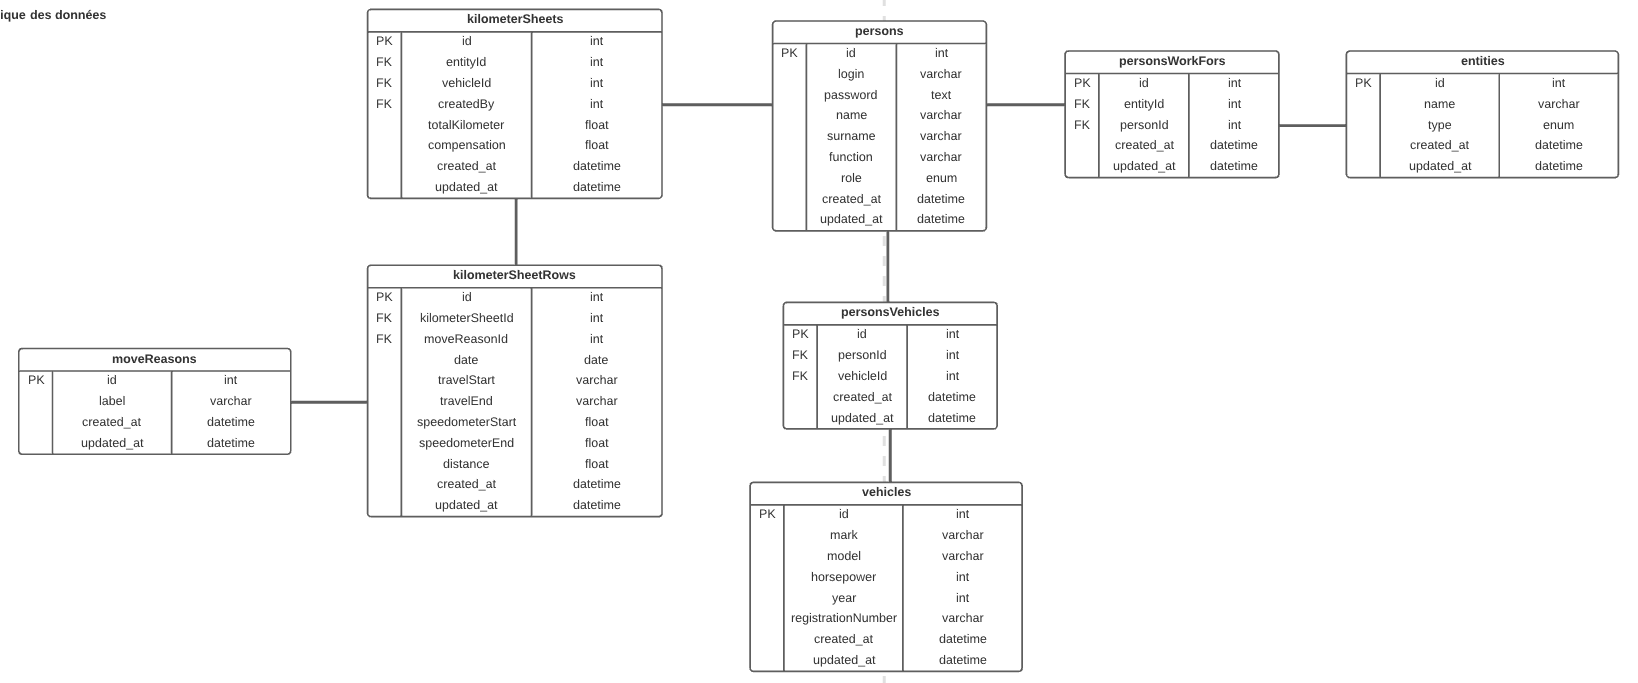
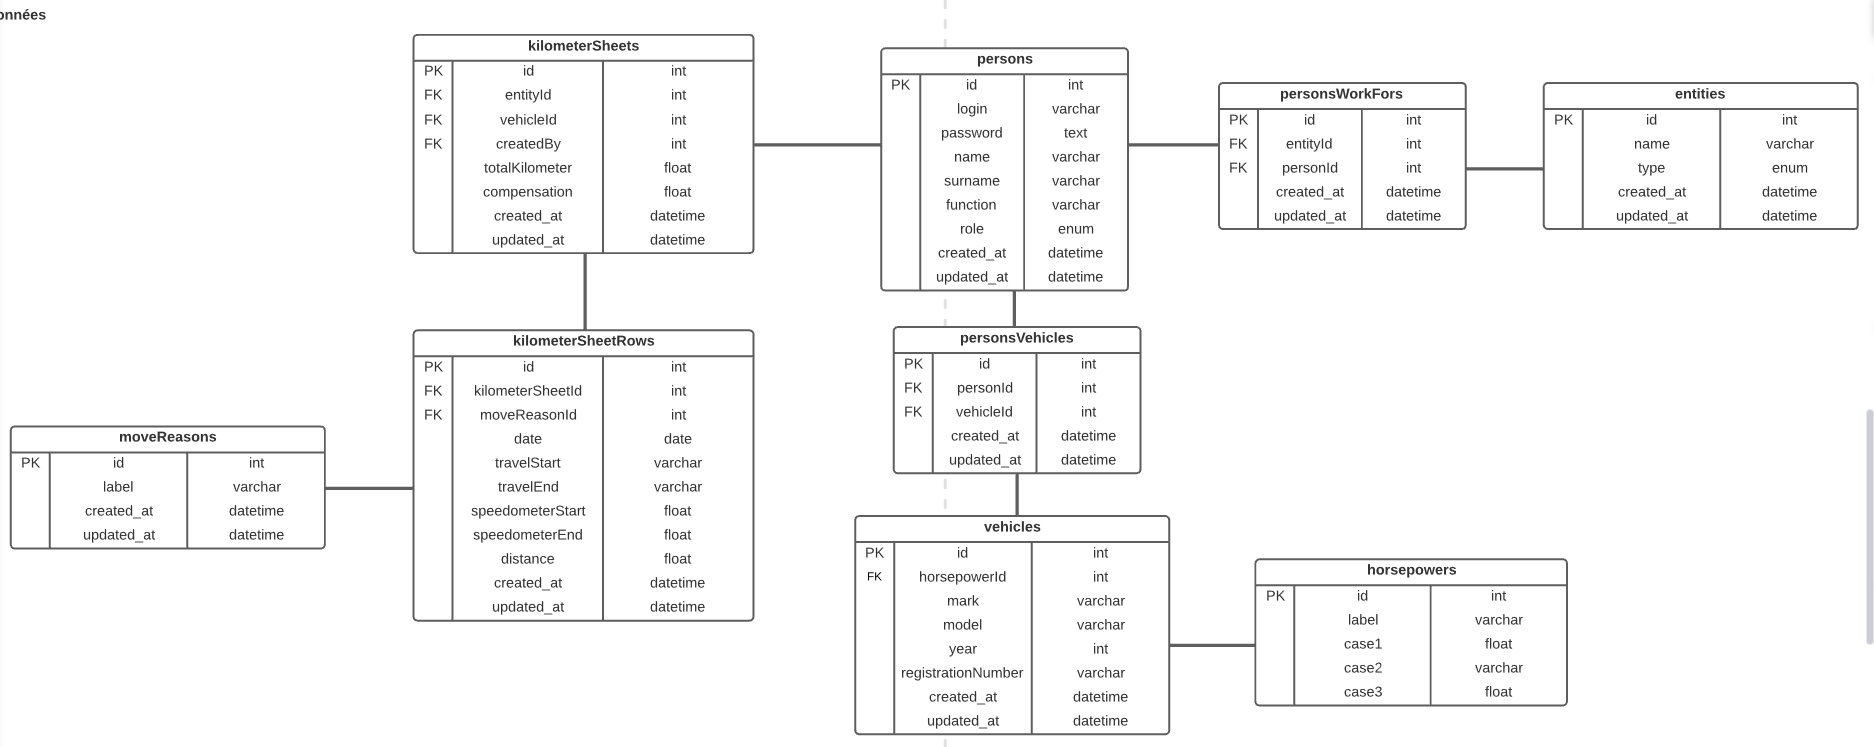
Rework : add horsepowers models and relations

diff --git a/electronSetup.js b/electronSetup.js
@@ -8,6 +8,7 @@ const database    = require('./config/database');
 const Entities            = require('./models/entities');
 const Persons             = require('./models/persons');
 const Vehicles            = require('./models/vehicles');
+const Horsepowers         = require('./models/horsepowers');
 const KilometerSheets     = require('./models/kilometersheets');
 const KilometerSheetRows  = require('./models/kilometersheetrows');
 const MoveReasons         = require('./models/movereasons');
@@ -45,6 +46,9 @@ function start(callback) {
         Persons.belongsToMany(Vehicles, {through: PersonsVehicles});
         Vehicles.belongsToMany(Persons, {through: PersonsVehicles});
 
+        // 1 horsepowers can be attribute to many vehicule
+        Horsepowers.hasMany(Vehicles);
+
         // 1 person can have many kilometerSheet
         // 1 Entity can have many kilometerSheet
         // 1 vehicles can have many kilometerSheet
@@ -60,7 +64,7 @@ function start(callback) {
 
         // database connection and sync
         database
-          .sync()
+          .sync({force: true})
           .then(result => {
 
             // starting web server

diff --git a/models/horsepowers.js b/models/horsepowers.js
@@ -1,0 +1,34 @@
+/**
+ * Define horsepowers model
+ */
+
+const { Sequelize, DataTypes, Model } = require('sequelize');
+
+const sequelize = require('../config/database');
+
+const Horsepowers = sequelize.define('horsepowers', {
+    id: {
+        type: DataTypes.INTEGER,
+        autoIncrement: true,
+        allowNull: false,
+        primaryKey: true
+    },
+    label: {
+        type: DataTypes.STRING,
+        allowNull: false
+    },
+    case1: {
+        type: DataTypes.FLOAT,
+        allowNull: false
+    },
+    case2: {
+        type: DataTypes.STRING,
+        allowNull: false
+    },
+    case3: {
+        type: DataTypes.FLOAT,
+        allowNull: false
+    }
+}, { timestamps: true });
+
+module.exports = Horsepowers;

diff --git a/app.js b/app.js
@@ -9,6 +9,7 @@ function createWindow() {
     let win = new BrowserWindow({
         width: 800,
         height: 600,
+        frame: false,
         webPreferences: {
             nodeIntegration: true
         }

diff --git a/public/js/script.js b/public/js/script.js
@@ -1,3 +1,3 @@
 $(function () {
-    $('body').addClass("bg-dark")
+    $('body').addClass("bg-dark");
 })
